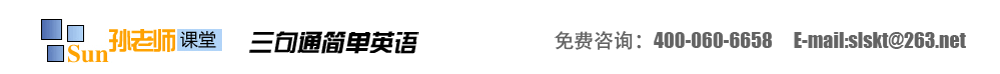
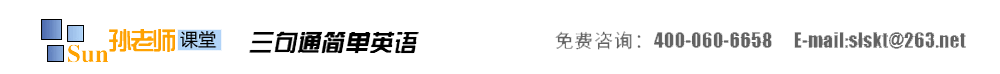
a

diff --git a/src/main/webapp/newindex.html b/src/main/webapp/newindex.html
@@ -100,7 +100,7 @@ body {
 </ul> 
 <div id="banner_list"> 
 <a href="#" target="_blank"><img src="/assets/images/mainad1.png" title="孙老师课堂" alt="" /></a> 
-<a href="#" target="_blank"><img src="/assets/images/mainad2.jpg" title="孙老师课堂" alt="" /></a> 
+<a href="#" target="_blank"><img src="/assets/images/mainad2.png" title="孙老师课堂" alt="" /></a> 
 </div> 
 </div> 
 	</div>
